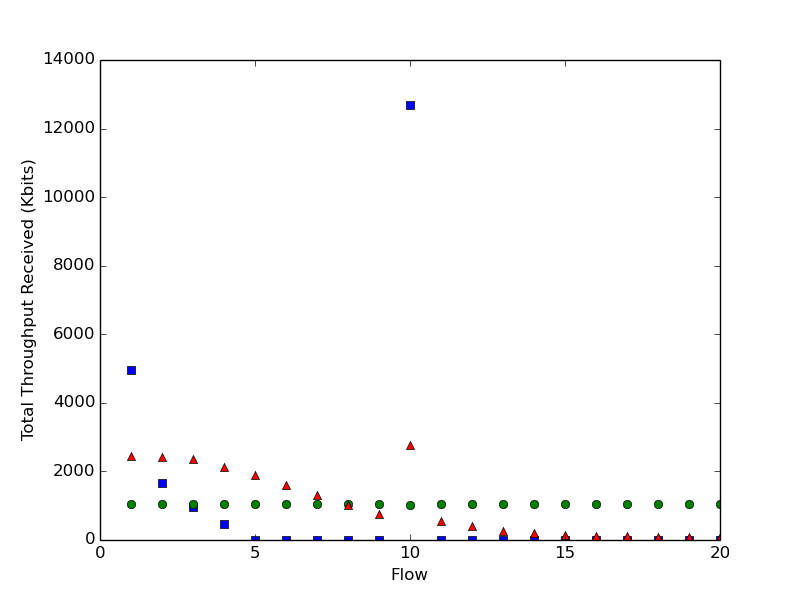
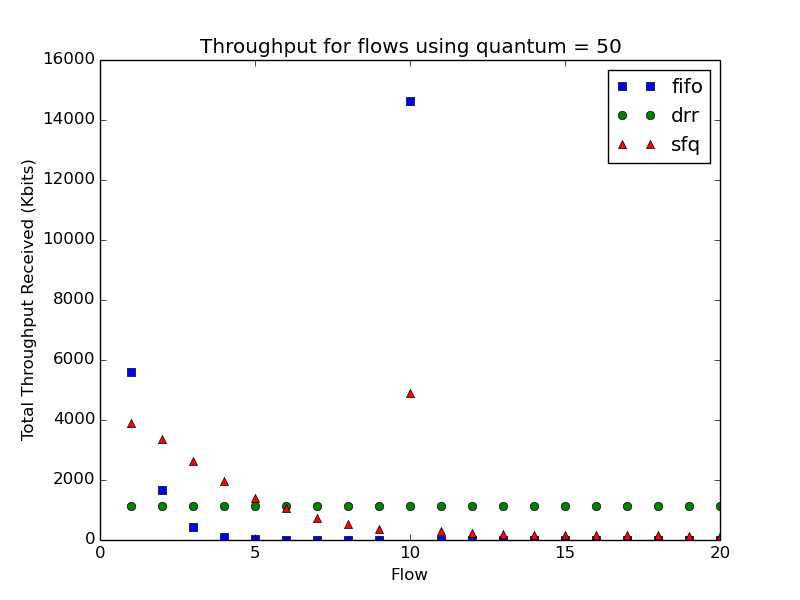
using random packet size between 12 and 560 bytes, and add legend to graph

diff --git a/scratch/drr.cc b/scratch/drr.cc
@@ -249,11 +249,10 @@ main (int argc, char *argv[])
 
     // NOTE: packet header is 28 bytes
     // so this results in total packet size x + 28 bytes
-    // Use random bits between 100 and 200 bytes
-    uint32_t packetSize = 200;
-    NS_LOG_DEBUG("Flow " << i << " has random packet size between " << packetSize / 2 << " and " << packetSize
-      << ", expected bit rate " << (packetSize + 28) * 8 * (i == illBehavedFlowNumber ? 60 : 20)
-      << " bits/s");
+    // Use random bits between 12 (min size) and 560 bytes (roughly 4500 bits)
+    uint32_t packetSize = 560;
+    NS_LOG_DEBUG("Flow " << i << " has random packet size between 12 and " << packetSize
+      << " bytes, expected bits/s = " << (packetSize + 28) * 8 * (i == illBehavedFlowNumber ? 60 : 20));
     sendHelper.SetAttribute ("PacketSize", UintegerValue (packetSize));
 
     // Install the source application on the correct host.

diff --git a/scratch/plot_figures.py b/scratch/plot_figures.py
@@ -70,10 +70,12 @@ print(sfqPortToThroughput)
 throughputFileName = os.path.join(args.dir, 'flows_throughput.png')
 
 plt.figure()
-plt.plot(fifoPortToThroughput.keys(), fifoPortToThroughput.values(), 'bs',
-    drrPortToThroughput.keys(), drrPortToThroughput.values(), 'go',
-    sfqPortToThroughput.keys(), sfqPortToThroughput.values(), 'r^')
+line1 = plt.plot(fifoPortToThroughput.keys(), fifoPortToThroughput.values(), 'bs', label='fifo')
+line2 = plt.plot(drrPortToThroughput.keys(), drrPortToThroughput.values(), 'go', label='drr')
+line3 = plt.plot(sfqPortToThroughput.keys(), sfqPortToThroughput.values(), 'r^', label='sfq')
+plt.legend(loc='upper right')
 plt.ylabel('Total Throughput Received (Kbits)')
 plt.xlabel('Flow')
+plt.title('Throughput for flows using quantum = 50')
 plt.savefig(throughputFileName)
 print('Saving ' + throughputFileName)

diff --git a/src/applications/model/udp-client.cc b/src/applications/model/udp-client.cc
@@ -175,7 +175,7 @@ UdpClient::Send (void)
   NS_ASSERT (m_sendEvent.IsExpired ());
   SeqTsHeader seqTs;
   seqTs.SetSeq (m_sent);
-  uint32_t randomizedPacketSize = (uint32_t)(rand() % (m_size / 2 + 1) + m_size / 2);
+  uint32_t randomizedPacketSize = (uint32_t)(rand() % (m_size + 1) + 12);
   Ptr<Packet> p = Create<Packet> (randomizedPacketSize-(8+4)); // 8+4 : the size of the seqTs header
   p->AddHeader (seqTs);
 
